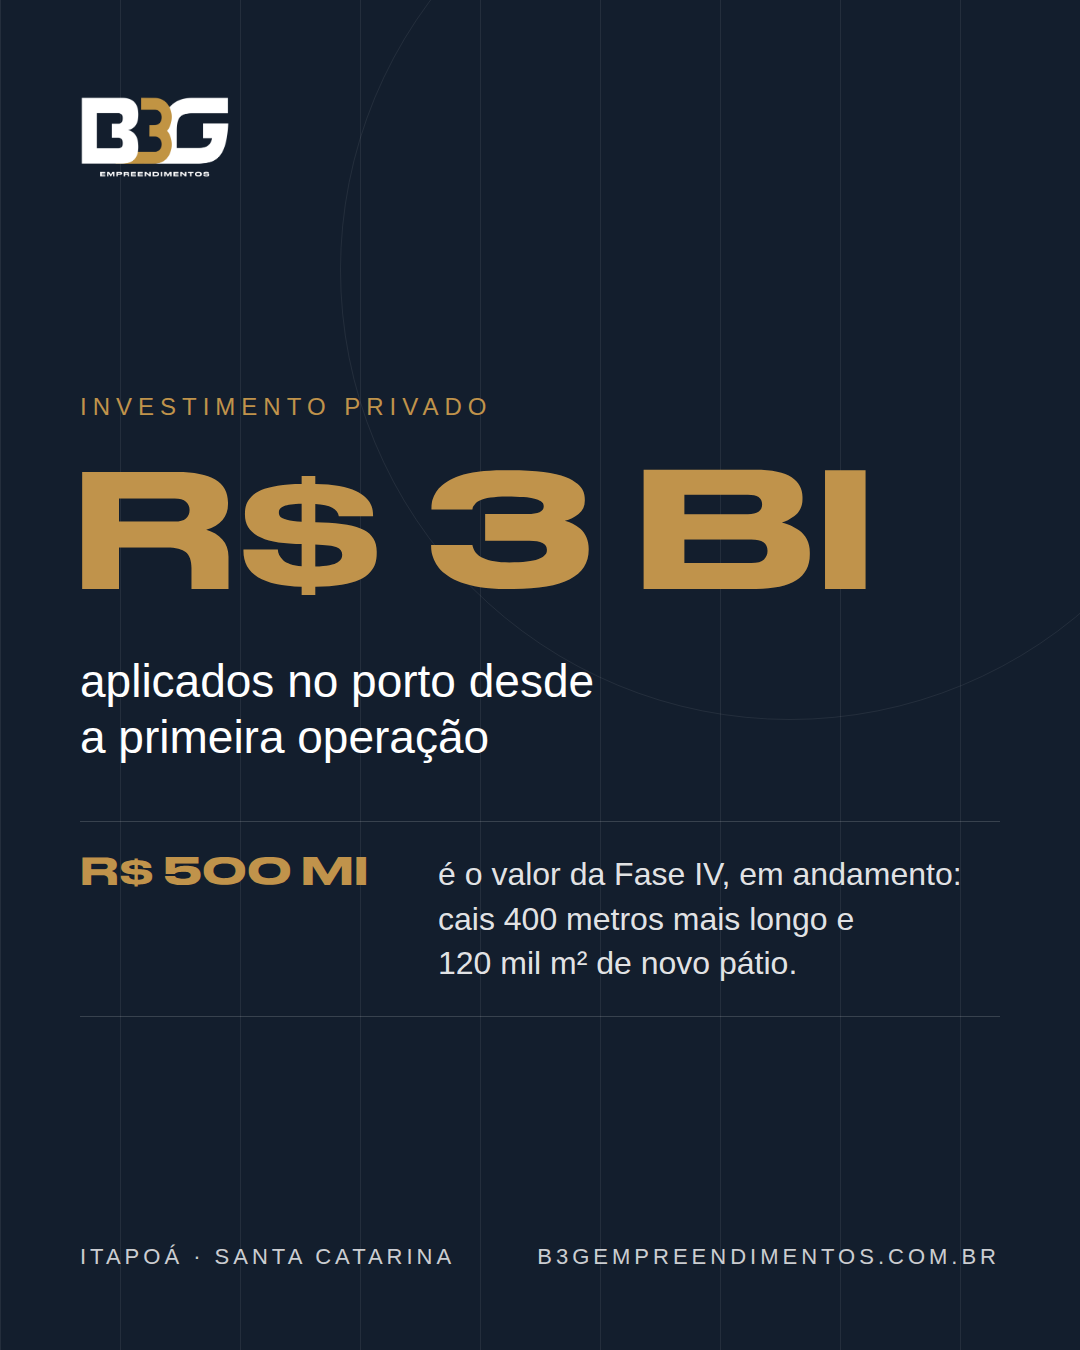
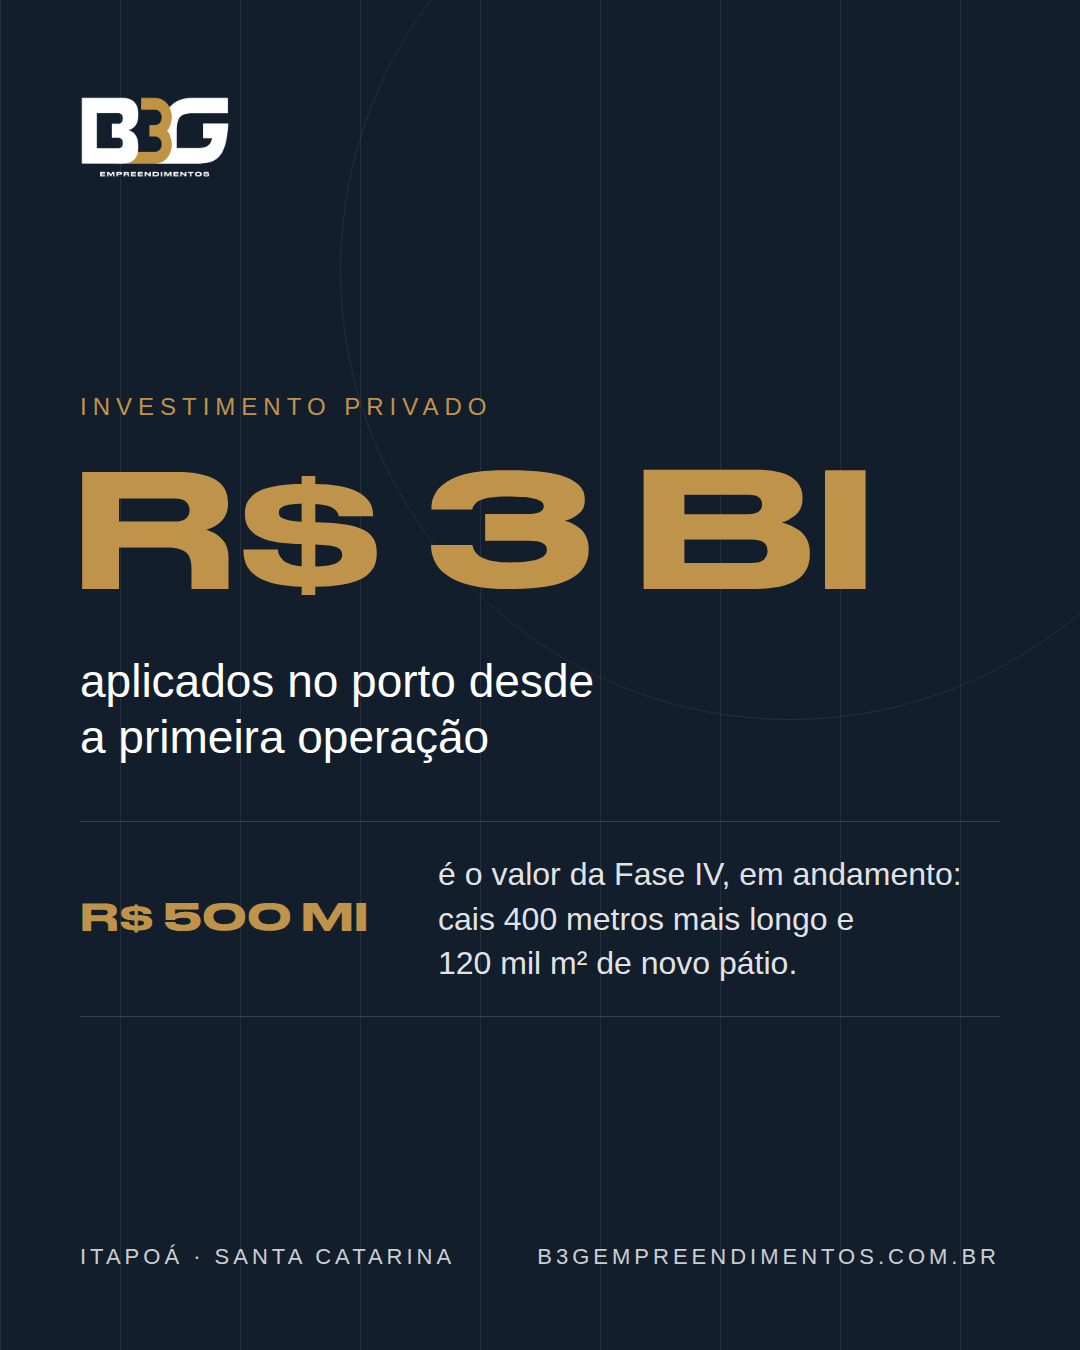
Center row figures vertically and add the Drive upload script
Claude-Session: https://claude.ai/code/session_01MkJUPckMk2A57CZdQx2khj

Changed region(s): [[0.0611, 0.6222, 0.3361, 0.7156]]

diff --git a/b3g-carrosseis/conteudo/carrosseis/investimentos-itapoa/instagram/3.1.html b/b3g-carrosseis/conteudo/carrosseis/investimentos-itapoa/instagram/3.1.html
@@ -18,7 +18,7 @@ body.claro .rotulo{color:#8A6A33}
 .txt{margin-top:40px;font-size:36px;line-height:1.45;color:var(--txt);font-weight:400;text-wrap:pretty}
 .nota{margin-top:28px;font-size:28px;line-height:1.4;color:var(--sec)}
 .linhas{margin-top:56px}
-.linha{display:grid;grid-template-columns:330px 1fr;gap:28px;align-items:baseline;padding:30px 0;border-top:1px solid var(--rule)}
+.linha{display:grid;grid-template-columns:330px 1fr;gap:28px;align-items:center;padding:30px 0;border-top:1px solid var(--rule)}
 .linha:last-child{border-bottom:1px solid var(--rule)}
 .linha .n{font-family:"Stretch Pro",Arial,sans-serif;font-size:40px;color:var(--num);white-space:nowrap;word-spacing:-.3em}
 .linha .t{font-size:32px;line-height:1.4;color:var(--txt)}

diff --git a/b3g-carrosseis/conteudo/carrosseis/investimentos-itapoa/instagram/3.2.html b/b3g-carrosseis/conteudo/carrosseis/investimentos-itapoa/instagram/3.2.html
@@ -18,7 +18,7 @@ body.claro .rotulo{color:#8A6A33}
 .txt{margin-top:40px;font-size:36px;line-height:1.45;color:var(--txt);font-weight:400;text-wrap:pretty}
 .nota{margin-top:28px;font-size:28px;line-height:1.4;color:var(--sec)}
 .linhas{margin-top:56px}
-.linha{display:grid;grid-template-columns:330px 1fr;gap:28px;align-items:baseline;padding:30px 0;border-top:1px solid var(--rule)}
+.linha{display:grid;grid-template-columns:330px 1fr;gap:28px;align-items:center;padding:30px 0;border-top:1px solid var(--rule)}
 .linha:last-child{border-bottom:1px solid var(--rule)}
 .linha .n{font-family:"Stretch Pro",Arial,sans-serif;font-size:40px;color:var(--num);white-space:nowrap;word-spacing:-.3em}
 .linha .t{font-size:32px;line-height:1.4;color:var(--txt)}

diff --git a/b3g-carrosseis/conteudo/carrosseis/investimentos-itapoa/instagram/6.html b/b3g-carrosseis/conteudo/carrosseis/investimentos-itapoa/instagram/6.html
@@ -18,7 +18,7 @@ body.claro .rotulo{color:#8A6A33}
 .txt{margin-top:40px;font-size:36px;line-height:1.45;color:var(--txt);font-weight:400;text-wrap:pretty}
 .nota{margin-top:28px;font-size:28px;line-height:1.4;color:var(--sec)}
 .linhas{margin-top:56px}
-.linha{display:grid;grid-template-columns:330px 1fr;gap:28px;align-items:baseline;padding:30px 0;border-top:1px solid var(--rule)}
+.linha{display:grid;grid-template-columns:330px 1fr;gap:28px;align-items:center;padding:30px 0;border-top:1px solid var(--rule)}
 .linha:last-child{border-bottom:1px solid var(--rule)}
 .linha .n{font-family:"Stretch Pro",Arial,sans-serif;font-size:40px;color:var(--num);white-space:nowrap;word-spacing:-.3em}
 .linha .t{font-size:32px;line-height:1.4;color:var(--txt)}

diff --git a/b3g-carrosseis/conteudo/carrosseis/investimentos-itapoa/instagram/7.html b/b3g-carrosseis/conteudo/carrosseis/investimentos-itapoa/instagram/7.html
@@ -18,7 +18,7 @@ body.claro .rotulo{color:#8A6A33}
 .txt{margin-top:40px;font-size:36px;line-height:1.45;color:var(--txt);font-weight:400;text-wrap:pretty}
 .nota{margin-top:28px;font-size:28px;line-height:1.4;color:var(--sec)}
 .linhas{margin-top:56px}
-.linha{display:grid;grid-template-columns:330px 1fr;gap:28px;align-items:baseline;padding:30px 0;border-top:1px solid var(--rule)}
+.linha{display:grid;grid-template-columns:330px 1fr;gap:28px;align-items:center;padding:30px 0;border-top:1px solid var(--rule)}
 .linha:last-child{border-bottom:1px solid var(--rule)}
 .linha .n{font-family:"Stretch Pro",Arial,sans-serif;font-size:40px;color:var(--num);white-space:nowrap;word-spacing:-.3em}
 .linha .t{font-size:32px;line-height:1.4;color:var(--txt)}
